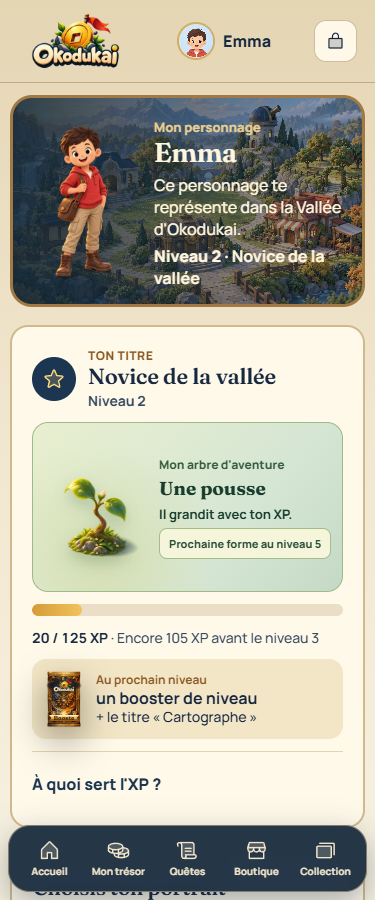
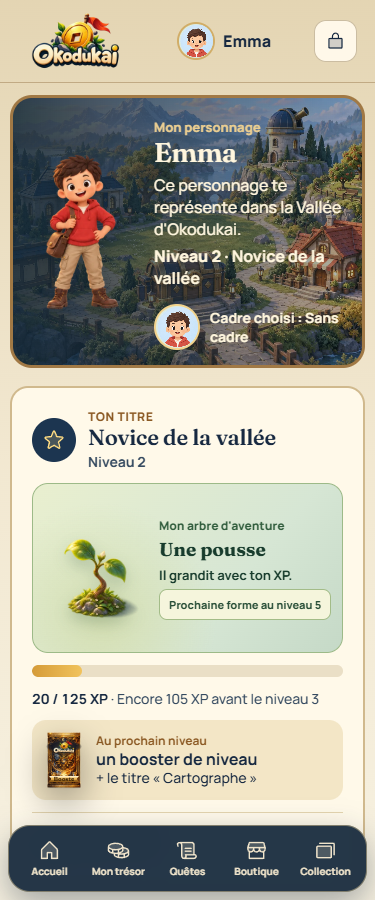
Complete child character poses and illustrated goals

diff --git a/apps/web/src/pages/child/money/MoneyVault.tsx b/apps/web/src/pages/child/money/MoneyVault.tsx
@@ -5,6 +5,7 @@ import { api, ApiError } from "../../../lib/api";
 import { chestStateFor, intentKey, pieces, type MoneyOverview } from "../../../lib/money";
 import { ChestArt } from "../../../art/ChestArt";
 import { GoalJourney } from "../../../components/GoalJourney";
+import { GOAL_ARTWORKS, type GoalArtworkKey } from "../../../lib/goalArtwork";
 import { MoneyLoadError, useMoneyOverview } from "./MoneyAccount";
 import { FinanceTip } from "../../../components/finance/FinanceTip";
 import { FinanceQuestion } from "../../../components/finance/FinanceQuestion";
@@ -75,6 +76,9 @@ const COPY = defineCopy({
     placeholder: "Un livre, un vélo, une sortie…",
     howMany: "Combien de pièces ?",
     quick: "Montants rapides",
+    artLabel: "Choisis une image pour ton objectif",
+    artHint: "Elle t'attendra au bout du chemin. Choisis celle qui ressemble le plus à ton idée.",
+    artNames: { book: "Livre", bicycle: "Vélo", cinema: "Cinéma", icecream: "Glace", dessert: "Dessert", "family-game": "Jeu en famille", music: "Musique", friend: "Ami", figurine: "Figurine" },
     save: "Enregistrer l'objectif",
     orReward: "Ou vise une récompense de la boutique :",
     rewards: "Récompenses de la boutique",
@@ -134,6 +138,9 @@ const COPY = defineCopy({
     placeholder: "A book, a bike, a day out…",
     howMany: "How many coins?",
     quick: "Quick amounts",
+    artLabel: "Choose a picture for your goal",
+    artHint: "You'll see it at the end of the path. Pick the closest match to your idea.",
+    artNames: { book: "Book", bicycle: "Bike", cinema: "Cinema", icecream: "Ice cream", dessert: "Dessert", "family-game": "Family game", music: "Music", friend: "Friend", figurine: "Figure" },
     save: "Save the goal",
     orReward: "Or aim for a reward from the shop:",
     rewards: "Shop rewards",
@@ -198,6 +205,7 @@ export function MoneyVault() {
   const [bump, setBump] = useState(false);
   const [goalTitle, setGoalTitle] = useState("");
   const [goalTarget, setGoalTarget] = useState(50);
+  const [goalArtwork, setGoalArtwork] = useState<GoalArtworkKey | null>(null);
   const [goalError, setGoalError] = useState<string | null>(null);
   const [rewards, setRewards] = useState<{ id: string; title: string; priceCoins: number }[]>([]);
   const [explained] = useState(explainedBefore);
@@ -268,10 +276,12 @@ export function MoneyVault() {
 
   async function createGoal(e: FormEvent) {
     e.preventDefault();
+    if (!goalArtwork) return;
     setGoalError(null);
     try {
-      await api.post("/child/savings/goals", { title: goalTitle.trim(), targetCoins: goalTarget });
+      await api.post("/child/savings/goals", { title: goalTitle.trim(), targetCoins: goalTarget, illustrationKey: goalArtwork });
       setGoalTitle("");
+      setGoalArtwork(null);
       await reload();
     } catch (err) {
       setGoalError(err instanceof ApiError && err.status !== 0 ? err.message : t.goalFailed);
@@ -414,7 +424,7 @@ export function MoneyVault() {
                 </strong>
                 <span>{t.of(goal.present, goal.targetCoins)}</span>
               </div>
-              <GoalJourney title={goal.title} present={goal.present} target={goal.targetCoins} />
+              <GoalJourney title={goal.title} present={goal.present} target={goal.targetCoins} illustrationKey={goal.illustrationKey} />
               <p>{goal.reached ? (goal.rewardId ? t.reachedShop(goal.title) : t.reached) : t.missing(pieces(goal.missing))}</p>
               {data.goals.length > 1 && (
                 <div className="money-goal-order">
@@ -445,6 +455,16 @@ export function MoneyVault() {
               <label htmlFor="goal-title">{t.what}</label>
               <input id="goal-title" value={goalTitle} onChange={(e) => setGoalTitle(e.target.value)} maxLength={60} placeholder={t.placeholder} required />
             </div>
+            <fieldset className="money-goal-artwork">
+              <legend>{t.artLabel}</legend>
+              <p>{t.artHint}</p>
+              <div className="money-goal-artwork-options">
+                {GOAL_ARTWORKS.map((key) => <button key={key} type="button" className={`money-goal-artwork-option${goalArtwork === key ? " money-goal-artwork-option--selected" : ""}`} aria-pressed={goalArtwork === key} onClick={() => setGoalArtwork(key)}>
+                  <img src={`/assets/rewards/reward-${key}-256.webp`} alt="" loading="lazy" width="64" height="64" />
+                  <span>{t.artNames[key]}</span>
+                </button>)}
+              </div>
+            </fieldset>
             <div className="field">
               <span className="field-label" id="goal-target-label">
                 {t.howMany}
@@ -460,7 +480,7 @@ export function MoneyVault() {
                 ))}
               </div>
             </div>
-            <button type="submit" className="btn btn-primary btn-block" disabled={!goalTitle.trim()}>
+            <button type="submit" className="btn btn-primary btn-block" disabled={!goalTitle.trim() || !goalArtwork}>
               {t.save}
             </button>
             {rewards.some((r) => !data.goals.some((g) => g.rewardId === r.id)) && (

diff --git a/apps/api/src/routes/goals.e2e.test.ts b/apps/api/src/routes/goals.e2e.test.ts
@@ -23,14 +23,16 @@ describe.skipIf(!process.env.DATABASE_URL)("objectifs d'épargne", () => {
       const foreign = await prisma.reward.create({ data: { householdId: other.id, title: "Ailleurs", category: "OBJET", priceCoins: 5 } });
       const kid = { cookie: `okodukai_session=${signSession({ kind: "child", childId: child.id, householdId: household.id })}`, "content-type": "application/json" };
       const create = (body: unknown) => fetch(`${base}/child/savings/goals`, { method: "POST", headers: kid, body: JSON.stringify(body) });
-      const goals = async () => ((await (await fetch(`${base}/child/money`, { headers: kid })).json()) as { goals: { id: string; title: string; targetCoins: number; rewardId: string | null }[] }).goals;
+      const goals = async () => ((await (await fetch(`${base}/child/money`, { headers: kid })).json()) as { goals: { id: string; title: string; targetCoins: number; rewardId: string | null; illustrationKey: string | null }[] }).goals;
 
+      expect((await create({ title: "Autre", targetCoins: 10, illustrationKey: "javascript:bad" })).status).toBe(400);
       expect((await create({ title: "x", targetCoins: 1, rewardId: foreign.id })).status).toBe(404);
-      expect((await create({ title: "Pas le vrai titre", targetCoins: 1, rewardId: reward.id })).status).toBe(201);
-      expect((await create({ title: "Un livre", targetCoins: 25 })).status).toBe(201);
+      expect((await create({ title: "Pas le vrai titre", targetCoins: 1, rewardId: reward.id, illustrationKey: "book" })).status).toBe(201);
+      expect((await create({ title: "Un livre", targetCoins: 25, illustrationKey: "book" })).status).toBe(201);
       let list = await goals();
       expect(list.map((g) => g.title)).toEqual(["Sortie vélo", "Un livre"]);
-      expect(list[0]).toMatchObject({ targetCoins: 40, rewardId: reward.id });
+      expect(list[0]).toMatchObject({ targetCoins: 40, rewardId: reward.id, illustrationKey: null });
+      expect(list[1].illustrationKey).toBe("book");
 
       const order = (goalIds: string[]) => fetch(`${base}/child/savings/goals/order`, { method: "POST", headers: kid, body: JSON.stringify({ goalIds }) });
       expect((await order([list[1].id])).status).toBe(400);

diff --git a/apps/web/src/components/ChildCharacter.tsx b/apps/web/src/components/ChildCharacter.tsx
@@ -1,6 +1,6 @@
 import { Avatar } from "./Avatar";
 
-/** Emma and Lucas have expressive poses; the other illustrated explorers keep their idle pose. */
+/** Every illustrated explorer has the same six expressions. */
 export type CharacterPose = "idle" | "happy" | "proud" | "thinking" | "victory" | "discovery";
 
 const illustratedAvatars = new Set(Array.from({ length: 16 }, (_, index) => `aventurier-${String(index + 1).padStart(2, "0")}`));
@@ -9,11 +9,12 @@ export function hasFullBodyCharacter(avatarId: string) { return illustratedAvata
 export function ChildCharacter({ avatarId, pose = "idle", className = "" }: { avatarId: string; pose?: CharacterPose; className?: string }) {
   const character = avatarId === "aventurier-06" ? "emma" : avatarId === "aventurier-05" ? "lucas" : illustratedAvatars.has(avatarId) ? avatarId.slice(-2) : null;
   if (!character) return <span className={className}><Avatar avatarId={avatarId} size="lg" /></span>;
-  const imagePose = character === "emma" || character === "lucas" ? pose : "idle";
+  const imagePose = pose;
+  const sourceWidths = character === "emma" || character === "lucas" || pose === "idle" ? [256, 512, 768] : [256, 512];
   return <img
     className={className}
     src={`/assets/characters/adventurer-${character}-${imagePose}-512.webp`}
-    srcSet={`/assets/characters/adventurer-${character}-${imagePose}-256.webp 256w, /assets/characters/adventurer-${character}-${imagePose}-512.webp 512w, /assets/characters/adventurer-${character}-${imagePose}-768.webp 768w`}
+    srcSet={sourceWidths.map((width) => `/assets/characters/adventurer-${character}-${imagePose}-${width}.webp ${width}w`).join(", ")}
     sizes="(max-width: 640px) 160px, 280px"
     alt=""
     draggable={false}

diff --git a/apps/api/src/lib/money.ts b/apps/api/src/lib/money.ts
@@ -211,6 +211,7 @@ export interface GoalView {
   targetCoins: number;
   /** Récompense de la boutique visée par cet objectif, s'il y en a une. */
   rewardId: string | null;
+  illustrationKey: string | null;
   /** Part de Mon coffre attribuée à cet objectif (remplissage dans l'ordre). */
   present: number;
   missing: number;
@@ -219,12 +220,12 @@ export interface GoalView {
 }
 
 /** Mon coffre remplit les objectifs l'un après l'autre, dans leur ordre. */
-export function allocateGoals(goals: { id: string; title: string; targetCoins: number; rewardId?: string | null; achievedAt: Date | null }[], vault: number): GoalView[] {
+export function allocateGoals(goals: { id: string; title: string; targetCoins: number; rewardId?: string | null; illustrationKey?: string | null; achievedAt: Date | null }[], vault: number): GoalView[] {
   let left = vault;
   return goals.map((g) => {
     const present = Math.max(0, Math.min(g.targetCoins, left));
     left -= present;
-    return { id: g.id, title: g.title, targetCoins: g.targetCoins, rewardId: g.rewardId ?? null, present, missing: g.targetCoins - present, reached: present >= g.targetCoins, achievedAt: g.achievedAt?.toISOString() ?? null };
+    return { id: g.id, title: g.title, targetCoins: g.targetCoins, rewardId: g.rewardId ?? null, illustrationKey: g.illustrationKey ?? null, present, missing: g.targetCoins - present, reached: present >= g.targetCoins, achievedAt: g.achievedAt?.toISOString() ?? null };
   });
 }
 

diff --git a/apps/web/src/styles/money.css b/apps/web/src/styles/money.css
@@ -704,6 +704,16 @@
   font-size: 18px;
 }
 
+.money-goal-artwork { min-width: 0; margin: 12px 0 18px; padding: 0; border: 0; }
+.money-goal-artwork legend { padding: 0; color: var(--ink); font-weight: 800; }
+.money-goal-artwork p { margin: 4px 0 12px; color: var(--ink-soft); font-size: 14px; }
+.money-goal-artwork-options { display: grid; grid-template-columns: repeat(auto-fill, minmax(90px, 1fr)); gap: 8px; }
+.money-goal-artwork-option { display: grid; justify-items: center; align-content: center; gap: 4px; min-height: 100px; padding: 6px; border: 2px solid var(--parchment-line); border-radius: 12px; background: var(--surface); color: var(--ink); font: 700 12px var(--font-interface); cursor: pointer; }
+.money-goal-artwork-option img { width: 64px; height: 64px; object-fit: contain; }
+.money-goal-artwork-option:hover { border-color: #b38948; }
+.money-goal-artwork-option--selected { border-color: #294958; background: #e7f0e9; box-shadow: 0 0 0 2px #fff8e7 inset; }
+.money-goal-artwork-option:focus-visible { outline: 3px solid #294958; outline-offset: 2px; }
+
 .field-label {
   font-size: 13px;
   font-weight: 700;

diff --git a/apps/web/src/components/GoalJourney.tsx b/apps/web/src/components/GoalJourney.tsx
@@ -1,5 +1,6 @@
 import { CoinArt } from "../art/CoinArt";
 import { rewardArtworkName } from "./RewardArt";
+import { isGoalArtworkKey } from "../lib/goalArtwork";
 import { defineCopy, useCopy } from "../i18n";
 import "../styles/goal-journey.css";
 
@@ -9,9 +10,9 @@ const copy = defineCopy({
 });
 
 /** A visual path to a goal; the progress values always come from the server. */
-export function GoalJourney({ title, present, target }: { title: string; present: number; target: number }) {
+export function GoalJourney({ title, present, target, illustrationKey = null }: { title: string; present: number; target: number; illustrationKey?: string | null }) {
   const t = useCopy(copy);
-  const art = rewardArtworkName(title);
+  const art = isGoalArtworkKey(illustrationKey) ? illustrationKey : rewardArtworkName(title);
   const capped = Math.min(Math.max(0, present), Math.max(1, target));
   const percent = Math.min(100, Math.max(0, target > 0 ? present / target * 100 : 0));
   const image = art ? `/assets/rewards/reward-${art}` : "/assets/goals/goal-waypost";

diff --git a/apps/api/src/routes/savings.ts b/apps/api/src/routes/savings.ts
@@ -228,6 +228,7 @@ const createGoalSchema = z.object({
   title: z.string().trim().min(1).max(60),
   targetCoins: z.number().int().positive().max(100_000),
   rewardId: z.string().uuid().optional(),
+  illustrationKey: z.enum(["cinema", "icecream", "dessert", "bicycle", "family-game", "music", "friend", "figurine", "book"]).optional(),
 });
 
 savingsRouter.post("/child/savings/goals", requireChild, validateBody(createGoalSchema), async (req, res) => {
@@ -251,6 +252,7 @@ savingsRouter.post("/child/savings/goals", requireChild, validateBody(createGoal
         title: fromReward?.title ?? req.body.title,
         targetCoins: fromReward?.priceCoins ?? req.body.targetCoins,
         rewardId: fromReward?.id ?? null,
+        illustrationKey: fromReward ? null : (req.body.illustrationKey ?? null),
         position: (goals.at(-1)?.position ?? -1) + 1,
       },
     });

diff --git a/apps/web/src/lib/goalArtwork.ts b/apps/web/src/lib/goalArtwork.ts
@@ -1,0 +1,6 @@
+export const GOAL_ARTWORKS = ["book", "bicycle", "cinema", "icecream", "dessert", "family-game", "music", "friend", "figurine"] as const;
+export type GoalArtworkKey = typeof GOAL_ARTWORKS[number];
+
+export function isGoalArtworkKey(value: string | null): value is GoalArtworkKey {
+  return GOAL_ARTWORKS.some((key) => key === value);
+}

diff --git a/apps/web/src/lib/money.ts b/apps/web/src/lib/money.ts
@@ -27,6 +27,7 @@ export interface GoalView {
   targetCoins: number;
   /** Récompense de la boutique visée, s'il y en a une. */
   rewardId: string | null;
+  illustrationKey: string | null;
   present: number;
   missing: number;
   reached: boolean;

diff --git a/docs/CHILD_UI_REDESIGN.md b/docs/CHILD_UI_REDESIGN.md
@@ -22,7 +22,7 @@ Les récompenses usuelles du foyer de démonstration possèdent maintenant des o
 
 Le journal choisit l'objet de chaque fiche d'après sa catégorie serveur, plutôt que sa position dans une liste. Maison, autonomie, apprentissage, entraide, créativité, école, jardin et animaux ont huit objets distincts. Le nom de la catégorie et le type de quête sont écrits en français et en anglais. Les habitudes et grandes quêtes ont chacune un bord de fiche reconnaissable ; la numérotation arbitraire des fiches a été retirée.
 
-L'XP fait aussi pousser un arbre personnel, visible dans le HUD et sur le profil. Cinq illustrations de la même espèce correspondent aux niveaux 1, 5, 10, 20 et 30. La taille varie légèrement entre ces seuils selon l'XP du niveau courant ; le prochain seuil est indiqué en texte. Un gain détecté depuis la dernière visite sur l'appareil déclenche une réaction courte, jamais un gain simulé. Ce compagnon visuel est purement cosmétique ; les nombres et les récompenses restent ceux du serveur. Le registre de compte possède maintenant sa propre scène intérieure, avec le solde sur une surface sombre lisible. Chaque objectif du coffre est une destination au bout d'un chemin : la pièce avance selon le montant du serveur, les quatre récompenses illustrées connues montrent leur objet, et les titres libres utilisent un poteau sans texte peint.
+L'XP fait aussi pousser un arbre personnel, visible dans le HUD et sur le profil. Cinq illustrations de la même espèce correspondent aux niveaux 1, 5, 10, 20 et 30. La taille varie légèrement entre ces seuils selon l'XP du niveau courant ; le prochain seuil est indiqué en texte. Un gain détecté depuis la dernière visite sur l'appareil déclenche une réaction courte, jamais un gain simulé. Ce compagnon visuel est purement cosmétique ; les nombres et les récompenses restent ceux du serveur. Le registre de compte possède maintenant sa propre scène intérieure, avec le solde sur une surface sombre lisible. Chaque objectif du coffre est une destination au bout d'un chemin : la pièce avance selon le montant du serveur. À la création d'un objectif libre, l'enfant choisit l'un des neuf objets peints de la boutique ; les objectifs anciens sans choix conservent le poteau illustré.
 
 Le profil propose aussi trois cadres de portrait : bois et laiton au niveau 5, feuillage au niveau 10, observatoire au niveau 20. L'enfant peut revenir au portrait sans cadre. Le serveur vérifie le niveau calculé depuis l'XP avant d'enregistrer le choix sur son profil ; le cadre apparaît dans l'en-tête, sur l'accueil et dans le choix des portraits. Aucun cadre ne modifie les pièces, l'XP ou les récompenses. Les cadres verrouillés restent visibles avec leur niveau requis.
 
@@ -42,6 +42,7 @@ Le script `node apps/web/scripts/capture-demo-levels.mjs` vérifie les seuils 1,
 - Les actions ont au moins 44 px ; le focus est visible. Les animations s'arrêtent avec `prefers-reduced-motion`.
 - L'arbre, le profil, le registre, un objectif du coffre, les huit catégories de quête, la collection, ses albums et la bibliothèque ont été capturés aux trois largeurs dans `docs/screenshots/child-experience-*` ; la capture est régénérable par `node apps/web/scripts/capture-child-experience.mjs` avec Chrome local. Les cinq paliers de la vallée sont dans `docs/screenshots/child-valley-tier-*`. Les chargements enfant montrent le sablier illustré, sans spinner bloquant.
 - Le choix des cadres est contrôlé à 375, 768 et 1280 px dans `docs/screenshots/child-portrait-frames-*`, régénérable par `node apps/web/scripts/capture-child-frames.mjs` avec Chrome local. La fixture remplace le niveau et le cadre dans les réponses du navigateur ; elle n'écrit pas dans la base.
+- Les cinq poses supplémentaires des quatorze personnages sont regroupées dans `docs/screenshots/child-character-poses-{1,2}.png`. Les captures `child-character-{01,08,16}-*` contrôlent la place et le profil à 375/768/1280 px. `child-goal-artwork-{journey,choice}-*` vérifie le choix d'image à ces largeurs, avec une réponse locale simulée sans écriture en base.
 
 ## Langue et contenu
 
@@ -49,4 +50,4 @@ Les nouveaux textes de l'accueil, de la navigation, du journal, de la boutique, 
 
 ## Personnages et paliers livrés
 
-Les 16 portraits ont chacun un personnage en pied. Emma (`aventurier-06`) et Lucas (`aventurier-05`) disposent des six poses cohérentes prévues : repos, heureux, fier, réflexion, victoire et découverte. La place montre la pose heureuse, le profil la pose fière et les étapes de leçon passent de découverte à réflexion puis fier ; la validation de quête utilise victoire. Les 14 autres personnages conservent les traits et vêtements de leur portrait et utilisent une pose repos sur ces écrans. Les paliers 5, 10, 20 et 30 ajoutent chacun un calque complet au village ; le hameau du fond est le palier 1.
+Les 16 portraits ont chacun un personnage en pied avec six poses : repos, heureux, fier, réflexion, victoire et découverte. La place montre la pose heureuse, le profil la pose fière et les étapes de leçon passent de découverte à réflexion puis fier ; la validation de quête utilise victoire. Les planches des quatorze derniers personnages ont été produites à partir de leur pose repos et inspectées côte à côte avant découpe. Les paliers 5, 10, 20 et 30 ajoutent chacun un calque complet au village ; le hameau du fond est le palier 1.

diff --git a/docs/ASSET_REGISTRY.md b/docs/ASSET_REGISTRY.md
@@ -37,6 +37,7 @@ code du dépôt (aucune banque d'images, aucun modèle génératif externe, aucu
 | Quatre nouveaux personnages en pied | `characters/adventurer-{01,02,03,04}-idle-{256,512,768}.webp` | Générés individuellement avec le roster et Emma comme références ; visages, coiffures et vêtements du portrait conservés, sans inscriptions. PNG sources dans `apps/web/art/source/child/` | `node apps/web/scripts/optimize-child-art.mjs` | 2026-09-27 |
 | Quatre personnages supplémentaires | `characters/adventurer-{07,08,09,10}-idle-{256,512,768}.webp` | Même méthode et même lumière, chaque portrait étant la référence d'identité ; sources PNG conservées. | `node apps/web/scripts/optimize-child-art.mjs` | 2026-09-27 |
 | Six derniers personnages du roster | `characters/adventurer-{11,12,13,14,15,16}-idle-{256,512,768}.webp` | Générés séparément avec le roster comme référence d'identité et Emma comme référence de rendu ; la première composition du portrait 16, horizontale, a été écartée. Sources PNG verticales conservées. | `node apps/web/scripts/optimize-child-art.mjs` | 2026-09-27 |
+| Cinq poses des quatorze autres personnages | `characters/adventurer-{01,02,03,04,07..16}-{happy,proud,thinking,victory,discovery}-{256,512}.webp` | Planches 2 × 3 générées à partir de chaque figure repos dans `art/source/child/pose-sheets/`. Découpe par personnage, suppression des fragments voisins, contrôle visuel des 70 poses dans `child-character-poses-{1,2}.png`. | `node apps/web/scripts/optimize-child-art.mjs` puis `node apps/web/scripts/review-character-poses.mjs` | 2026-09-28 |
 | Quatre catégories de quêtes | `quests/quest-{home,autonomy,learning,help}-{180,360,540}.webp` | Objets générés séparément à partir du livre et du parchemin de référence : balayette, caisse à pull, livre et loupe, plateau de table. Sources PNG dans `apps/web/art/source/child/` ; aucun texte peint. | `node apps/web/scripts/optimize-child-art.mjs` | 2026-09-27 |
 | Quatre autres catégories de quêtes | `quests/quest-{creativity,school,garden,animals}-{180,360,540}.webp` | Objets générés séparément dans la même lumière : boîte de peinture, cartable, arrosoir et matériel de soin aux animaux. Sources PNG transparentes dans `apps/web/art/source/child/` ; sans texte ni pictogramme plaqué. | `node apps/web/scripts/optimize-child-art.mjs` | 2026-09-27 |
 | Récompenses familiales | `rewards/reward-{cinema,icecream,bicycle,family-game}-{256,512}.webp` | Objets générés sur fond transparent ; contrôlés puis reliés à des titres de récompenses par `RewardArt.tsx`. PNG dans `apps/web/art/source/child/` | `node apps/web/scripts/optimize-child-art.mjs` | 2026-09-27 |
@@ -44,6 +45,7 @@ code du dépôt (aucune banque d'images, aucun modèle génératif externe, aucu
 | Scènes pédagogiques | `learning/learning-{diversification,inflation,risk,compound}-{320,640}.webp` | Planche de quatre scènes générée pour la vallée puis découpée sur ses gouttières ; PNG dans `apps/web/art/source/child/` | `node apps/web/scripts/optimize-child-art.mjs` | 2026-09-27 |
 | Arbre d'aventure (5 formes) | `experience/xp-tree-{sprout,sapling,young,flowering,mature}-{256,512}.webp` | Grand arbre généré puis quatre formes dérivées de la même référence ; lumière, tronc, feuilles et base contrôlés. Sources PNG dans `apps/web/art/source/child/` | `node apps/web/scripts/optimize-child-art.mjs` | 2026-09-27 |
 | Destination d'objectif libre | `goals/goal-waypost-{128,256,512}.webp` | Poteau et carte générés sur fond transparent à partir de la matière des objets de récompense. Source `art/source/child/goal-waypost.png` | `node apps/web/scripts/optimize-child-art.mjs` | 2026-09-27 |
+| Illustration choisie pour un objectif libre | Neuf `rewards/reward-*.webp` existants | L'enfant choisit une image lors de la création ; l'API n'accepte que les neuf clés publiées. Les anciens objectifs restent sur le poteau si leur titre ne correspond à aucun objet. | `node apps/web/scripts/capture-goal-artwork.mjs` | 2026-09-28 |
 | Cadres de portrait | `frames/frame-{camp,grove,observatory}-{128,256}.webp` | Trois anneaux générés avec fond et centre transparents : bois et laiton, feuillage de ginkgo, émail bleu et étoiles de boussole. Sources PNG dans `apps/web/art/source/child/frame-*.png` ; chaque variante reprend la géométrie du premier cadre. | `node apps/web/scripts/optimize-child-art.mjs` | 2026-09-27 |
 | Image de partage | `social/okodukai-share.jpg` | Source `images/metadescription.png` fournie par le propriétaire ; JPEG 1672×941, qualité 90. Balises Open Graph et Twitter dans `apps/web/index.html`. | `node apps/web/scripts/prepare-meta-assets.mjs` | 2026-09-27 |
 | Favicon et icônes d'application | `favicon-32.png`, `favicon.png`, `apple-touch-icon.png`, `icons/icon-{192,512}.png` | Source `images/favicon.png` fournie par le propriétaire ; tailles adaptées au navigateur, à iOS et à la PWA. | `node apps/web/scripts/prepare-meta-assets.mjs` | 2026-09-27 |

diff --git a/docs/CHILD_ASSET_PLAN.md b/docs/CHILD_ASSET_PLAN.md
@@ -16,7 +16,7 @@ Le registre des fichiers livrés et de leur provenance est `ASSET_REGISTRY.md`. 
 | `adventurer-{emma,lucas}-idle-{256,512,768}.webp` | Place, profil | WebP transparent | Personnages du roster en pied | P1 | Livré |
 | `adventurer-{emma,lucas}-victory-{256,512,768}.webp` | Validation de quête | WebP transparent | Même personnage et caméra | P1 | Livré |
 | `adventurer-{emma,lucas}-{happy,proud,thinking,discovery}-{256,512,768}.webp` | Place, profil et leçons | WebP transparent, trois tailles | Même personnage, tenue et caméra que les poses existantes | P1 | Livré |
-| Personnages en pied pour les 14 autres portraits | Profil et moments de jeu | WebP transparent 256/512/768 | Fidèles au portrait choisi | P1 | Livré : les 16 portraits ont une figure en pied ; Emma et Lucas ont six poses, les 14 autres la pose repos |
+| `adventurer-{01,02,03,04,07..16}-{happy,proud,thinking,victory,discovery}-{256,512}.webp` | Place, profil, leçons et validation | WebP transparent, deux tailles ; source : planches 2 × 3 dans `art/source/child/pose-sheets/` | Visage, vêtements et accessoires du personnage conservés dans les cinq nouvelles poses | P1 | Livré : les 16 portraits ont désormais six poses. Planches et vues 375/768/1280 contrôlées. |
 | `reward-{cinema,icecream,bicycle,family-game}-{256,512}.webp` | Boutique, récompenses familiales | WebP transparent | Objets trois-quarts, palette du monde | P1 | Livré |
 | `reward-{dessert,music,friend,figurine,book}-{256,512}.webp` | Boutique, récompenses courantes du foyer | WebP transparent | Objets distincts, détails fonctionnels et sans inscriptions | P1 | Livré, contrôlé à 375/768/1280 px |
 | `quest-{home,autonomy,learning,help}-{180,360,540}.webp` | Journal, catégories maison, autonomie, apprentissage et entraide | WebP transparent | Objets du quotidien, sans texte ni décor plaqué | P1 | Livré, contrôlé à 375/768/1280 px |
@@ -27,7 +27,7 @@ Le registre des fichiers livrés et de leur provenance est `ASSET_REGISTRY.md`. 
 | `child-registry-interior-{1280,1920}.webp` | Registre de compte enfant | WebP panoramique | Comptoir de bois, registre ouvert, vallée par la fenêtre ; zone calme à gauche pour les chiffres | P1 | Livré |
 | `hub-tier-{5,10,20,30}-{wide,tall}-*.webp` | Progression du village | WebP transparent, un calque complet par palier, 1280/1920 et 720/1080, mêmes dimensions que le fond | Même caméra et même lumière que `child-hub-*` ; ajouts dans les zones libres | P2 | Livré ; contrôle à 375/768/1280 px avec `capture-child-valley-tiers.mjs` |
 | `xp-tree-{sprout,sapling,young,flowering,mature}-{256,512}.webp` | HUD et profil, croissance avec l'XP | WebP transparent, deux tailles | Trois-quarts, arbre courbe à fleurs ivoire, base moussue et lumière de la vallée | P1 | Livré, cinq formes |
-| `goal-waypost-{128,256,512}.webp` | Destination des objectifs libres | WebP transparent, trois tailles | Poteau en bois, carte sans texte, médaillon vide ; trois-quarts | P1 | Livré |
+| `goal-waypost-{128,256,512}.webp` | Anciens objectifs libres sans illustration | WebP transparent, trois tailles | Poteau en bois, carte sans texte, médaillon vide ; trois-quarts | P1 | Conservé comme repli. Pour un nouvel objectif libre, l'enfant choisit parmi neuf objets peints déjà présents dans la boutique. |
 
 Les sources de la nouvelle série sont dans `apps/web/art/source/child/`. `node apps/web/scripts/optimize-child-art.mjs` régénère les WebP. Les images des cartes et le sachet de booster sont déjà intégrés. Leur changement demande une revue d’ensemble, car ils constituent un système de collection existant.
 
